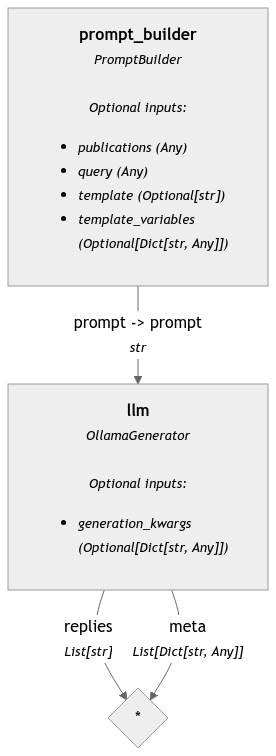
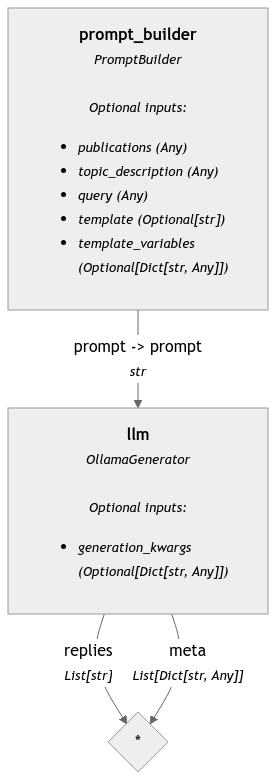
feat(validator): Enhance fos_descriptions.py to use a taxonomy dictionary for improved data handling and update prompt builder parameters, to provide scientific summarization per Level 5 name.

diff --git a/validator/utils/fos_descriptions.py b/validator/utils/fos_descriptions.py
@@ -80,6 +80,7 @@ def main():
     # load the taxonomy
     with open(FOS_TAXONOMY_PATH, "r") as f:
         taxonomy = json.load(f)
+    taxonomy_dict = {item['level_5_id']: item for item in taxonomy}
     # load the collection
     with open(ipath, "r") as f:
         collection = json.load(f)
@@ -113,11 +114,14 @@ def main():
             # since we can have identical level_5 names under different level_4 names with different publications
             # when processing this collection some level_5 were excluded from the taxonomy
             # here we can also use the topic description of the level_5 for providing some information to the LLM
-            if fos not in taxonomy:
+            if fos not in taxonomy_dict:
+                # delete the entry from the collection; no need to have it
+                del collection[fos]
                 continue
-            query = taxonomy[fos]["level_5_name"]
-            my_docs = [doc[1].lower().rstrip().lstrip() for doc in collection[fos]['representative_docs'] if doc]
+            query = taxonomy_dict[fos]["level_5_name"]
+            my_docs = [Document(content=doc[1].lower().rstrip().lstrip()) for doc in collection[fos]['representative_docs'] if doc]
             topic_description = collection[fos]['l5_topic_description']
+            publications = collection[fos]
         # detect the language of the documents
         if lang_detect:
             lang_res = lang_classifier.run(documents=my_docs)
@@ -132,12 +136,12 @@ def main():
         results = pipe.run(
             {"prompt_builder": {"query": query, "publications": my_docs}}
         ) if level != "level_5" else pipe.run(
-            {"prompt_builder": {"query": query, "topic_description": topic_description}}
+            {"prompt_builder": {"query": query, "publications": my_docs, "topic_description": topic_description}}
         )
         description = results['llm']['replies'][0]
         collection[fos] = {
             "description": description,
-            "publications": publications
+            "publications": publications # this key name is ambiguous, maybe it should be changed.
         }
     # save the results
     with open(opath, "w") as f:
